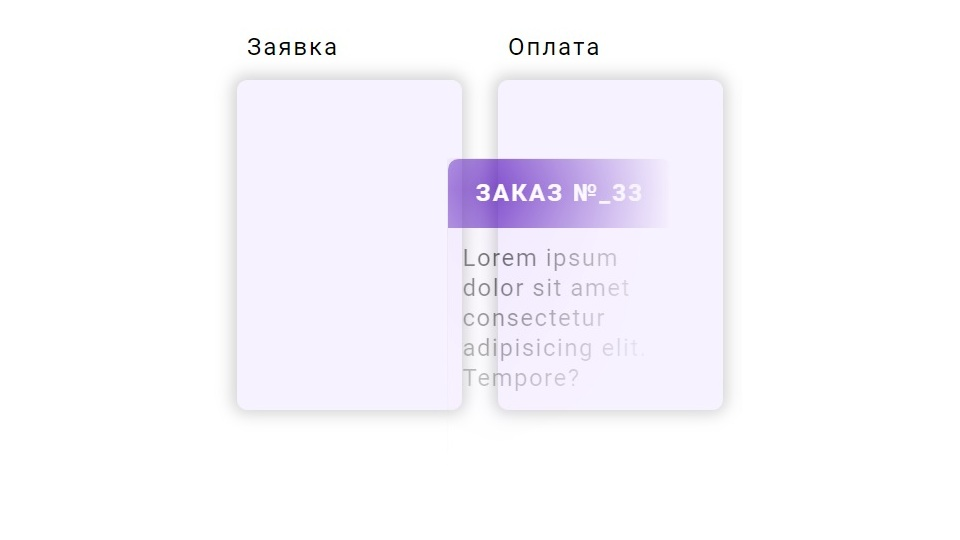
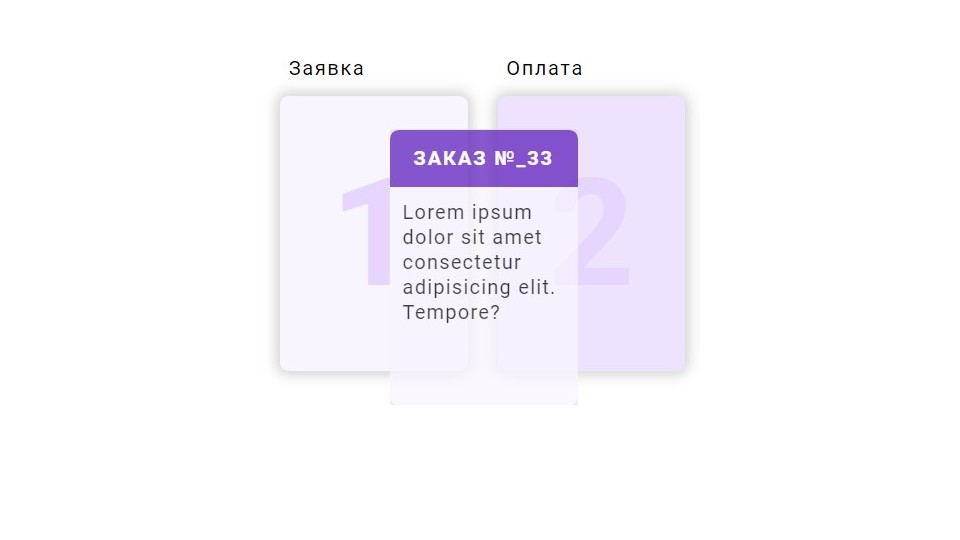
Update tricks: dragndrop styles

diff --git a/tricks/tricks_js/drag_n_drop/drag_n_drop.html b/tricks/tricks_js/drag_n_drop/drag_n_drop.html
@@ -14,14 +14,23 @@
 </head>
 
 <body class="light">
-  
+
   <div class="trick-page-wrap" id="home">
     <!-- Navigation -->
     <a href="../../index.html" class="navigation button_home" title="home">
-      <svg enable-background="new 0 0 512 512" height="40px" id="Layer_1" version="1.1" viewBox="143 143 227 227" width="40px" xml:space="preserve" xmlns="http://www.w3.org/2000/svg" xmlns:xlink="http://www.w3.org/1999/xlink"><g><polygon fill="none" points="   256,151.1 151.5,255.6 187.5,255.6 187.5,360.9 235.7,360.9 235.7,290.6 276.3,290.6 276.3,360.9 324.5,360.9 324.5,255.6    360.5,255.6  " stroke="#ffffff" stroke-linecap="round" stroke-linejoin="round" stroke-miterlimit="10" stroke-width="10" class="image_svg"/></g></svg>
+      <svg enable-background="new 0 0 512 512" height="40px" id="Layer_1" version="1.1" viewBox="143 143 227 227" width="40px" xml:space="preserve" xmlns="http://www.w3.org/2000/svg" xmlns:xlink="http://www.w3.org/1999/xlink">
+        <g>
+          <polygon fill="none" points="   256,151.1 151.5,255.6 187.5,255.6 187.5,360.9 235.7,360.9 235.7,290.6 276.3,290.6 276.3,360.9 324.5,360.9 324.5,255.6    360.5,255.6  " stroke="#ffffff" stroke-linecap="round" stroke-linejoin="round" stroke-miterlimit="10" stroke-width="10" class="image_svg" />
+        </g>
+      </svg>
     </a>
     <a href="../tricks_js.html" class="navigation button_back" title="back">
-      <svg enable-background="new 0 0 512 512" height="40px" id="Layer_1" version="1.1" viewBox="170 160 175 170" width="40px" xml:space="preserve" xmlns="http://www.w3.org/2000/svg" xmlns:xlink="http://www.w3.org/1999/xlink"><g><path d="   M187,256c0,38.1,30.9,69,69,69s69-30.9,69-69s-30.9-69-69-69l16.8,33.3" fill="none" stroke="#ffffff" stroke-linecap="round" stroke-linejoin="round" stroke-miterlimit="10" stroke-width="10" class="image_svg"/><line fill="none" stroke="#ffffff" stroke-linecap="round" stroke-linejoin="round" stroke-miterlimit="10" stroke-width="10" x1="256" x2="283.9" y1="187" y2="166.7" class="image_svg"/></g></svg>
+      <svg enable-background="new 0 0 512 512" height="40px" id="Layer_1" version="1.1" viewBox="170 160 175 170" width="40px" xml:space="preserve" xmlns="http://www.w3.org/2000/svg" xmlns:xlink="http://www.w3.org/1999/xlink">
+        <g>
+          <path d="   M187,256c0,38.1,30.9,69,69,69s69-30.9,69-69s-30.9-69-69-69l16.8,33.3" fill="none" stroke="#ffffff" stroke-linecap="round" stroke-linejoin="round" stroke-miterlimit="10" stroke-width="10" class="image_svg" />
+          <line fill="none" stroke="#ffffff" stroke-linecap="round" stroke-linejoin="round" stroke-miterlimit="10" stroke-width="10" x1="256" x2="283.9" y1="187" y2="166.7" class="image_svg" />
+        </g>
+      </svg>
     </a>
     <!-- / Navigation -->
 
@@ -30,9 +39,9 @@
       <div class="wrapper">
 
         <span class="trick_info">desktop only</span>
-        
+
         <ul class="cards">
-          <li class="cards__item">
+          <li class="cards__item" data-num="1">
             <span class="cards__item_info">Заявка</span>
             <div class="card" draggable="true">
               <h3 class="card__title">Заказ №_33</h3>
@@ -41,13 +50,13 @@
               </p>
             </div>
           </li>
-          <li class="cards__item">
+          <li class="cards__item" data-num="2">
             <span class="cards__item_info">Оплата</span>
           </li>
-          <li class="cards__item">
+          <li class="cards__item" data-num="3">
             <span class="cards__item_info">Производство</span>
           </li>
-          <li class="cards__item">
+          <li class="cards__item" data-num="4">
             <span class="cards__item_info">Отгрузка</span>
           </li>
         </ul>

diff --git a/tricks/tricks_js/drag_n_drop/drag_n_drop.css b/tricks/tricks_js/drag_n_drop/drag_n_drop.css
@@ -1,3 +1,9 @@
+:root {
+  --card-header-background-color: #5f1fbe;
+  --card-background-color: #f8f5ff;
+  --card-hover-background-color: #eee3ff;
+}
+
 .wrapper {
   padding: 100px 15px;
 }
@@ -7,7 +13,7 @@
   top: 5px;
   left: 50%;
   transform: translate(-50%, 0);
-  color: #3f17803b;
+  color: #4f24943d;
   font-style: italic;
 }
 
@@ -24,8 +30,9 @@
   margin: 12px;
   margin-bottom: 40px;
   border-radius: 7px;
-  background-color: #9553ff13;
-  box-shadow: 0 0 10px 3px lightgrey;
+  background-color: var(--card-background-color);
+  box-shadow: 0 0 10px 3px #d3d3d3;
+  z-index: 55;
 }
 
 .cards__item_info {
@@ -33,6 +40,19 @@
   top: -30px;
   left: 7px;
   letter-spacing: 1.3px;
+}
+
+.cards__item::after {
+  display: block;
+  content: attr(data-num);
+  position: absolute;
+  top: 50%;
+  left: 50%;
+  transform: translate(-50%, -50%);
+  font-size: 120px;
+  font-weight: 700;
+  color: #e5d5ff;
+  z-index: 3;
 }
 
 .card {
@@ -43,10 +63,10 @@
 }
 
 .card__title {
-  background-color: #5f1fbe;
+  background-color: var(--card-header-background-color);
   border-radius: 7px 7px 0 0;
   padding: 15px 0;
-  color: white;
+  color: #fff;
   text-transform: uppercase;
   font-weight: bold;
   letter-spacing: 1.5px;
@@ -54,10 +74,13 @@
 
 .card__info {
   flex-grow: 1;
+  border-radius: 0 0 7px 7px;
   padding: 10px;
   letter-spacing: 1px;
   line-height: 20px;
   text-align: start;
+  background-color: var(--card-background-color);
+  z-index: 10;
 }
 
 .hide {
@@ -65,5 +88,5 @@
 }
 
 .hover {
-  background-color: #752bec27;
+  background-color: var(--card-hover-background-color)
 }

diff --git a/tricks/styles/styles.css b/tricks/styles/styles.css
@@ -9,12 +9,9 @@ a, a:active, a:focus {
   border: none;
   text-decoration: none;
   outline: 0;
-  /* -moz-outline-style: none; */
-  
   -webkit-tap-highlight-color: rgba(255, 255, 255, 0);
   -webkit-tap-highlight-color: transparent;
 }
-
 
 /* Grids & Background */
 .wrap {
@@ -45,7 +42,6 @@ a, a:active, a:focus {
   position: relative;
 }
 /* / Grids & Background */
-
 
 /* Header */
 .header {
@@ -93,7 +89,6 @@ a, a:active, a:focus {
 }
 /* / Header */
 
-
 /* Main */
 .main {
   z-index: 10;
@@ -108,10 +103,10 @@ a, a:active, a:focus {
   display: flex;
   flex-direction: row;
   flex-wrap: wrap;
-  justify-content: space-around;
+  justify-content: space-between;
 }
 .card-wrap {
-  width: 49%;
+  width: 48%;
   position: relative;
   overflow: hidden;
   cursor: pointer;
@@ -162,7 +157,6 @@ a, a:active, a:focus {
   margin-top: 50px;
 }
 /* / Main */
-
 
 /* Footer */
 .footer {
